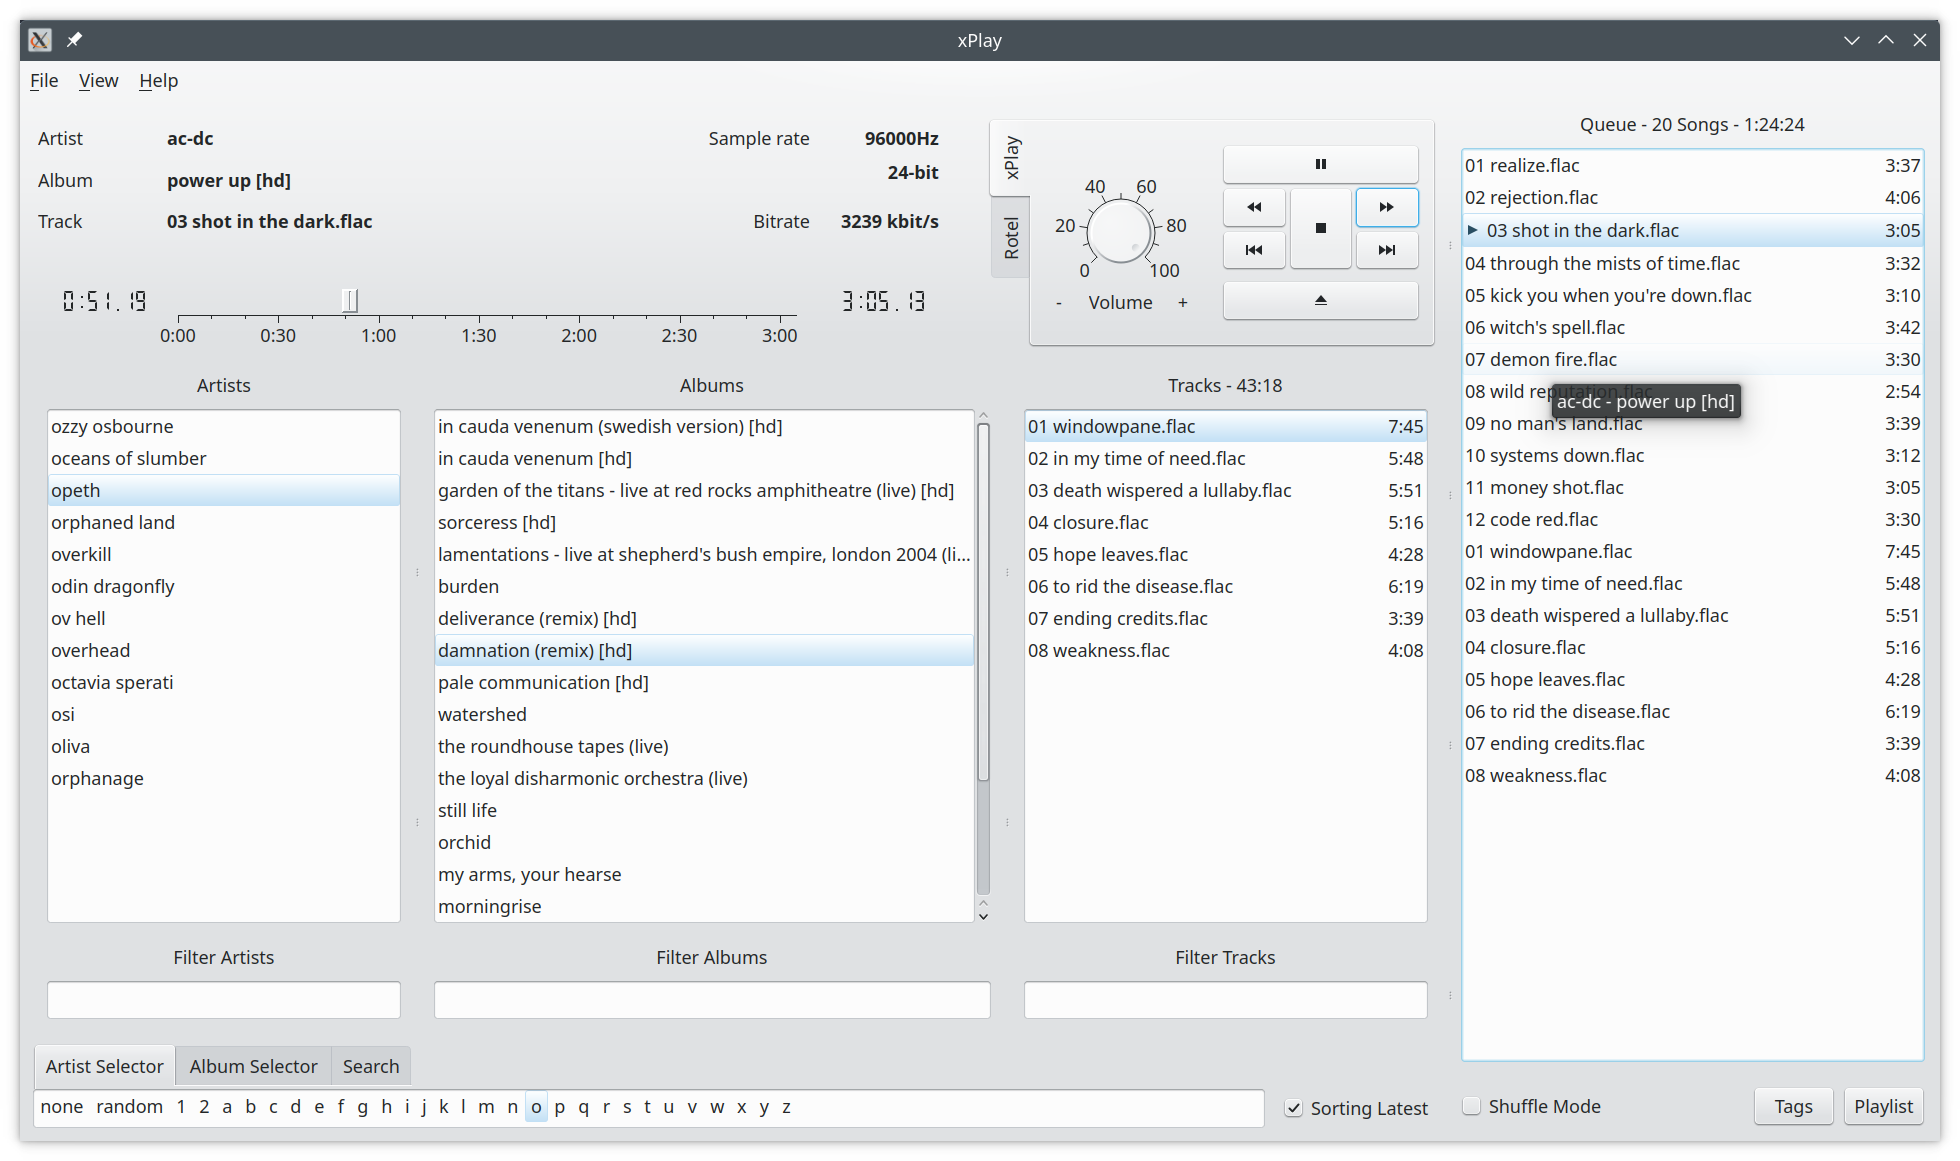
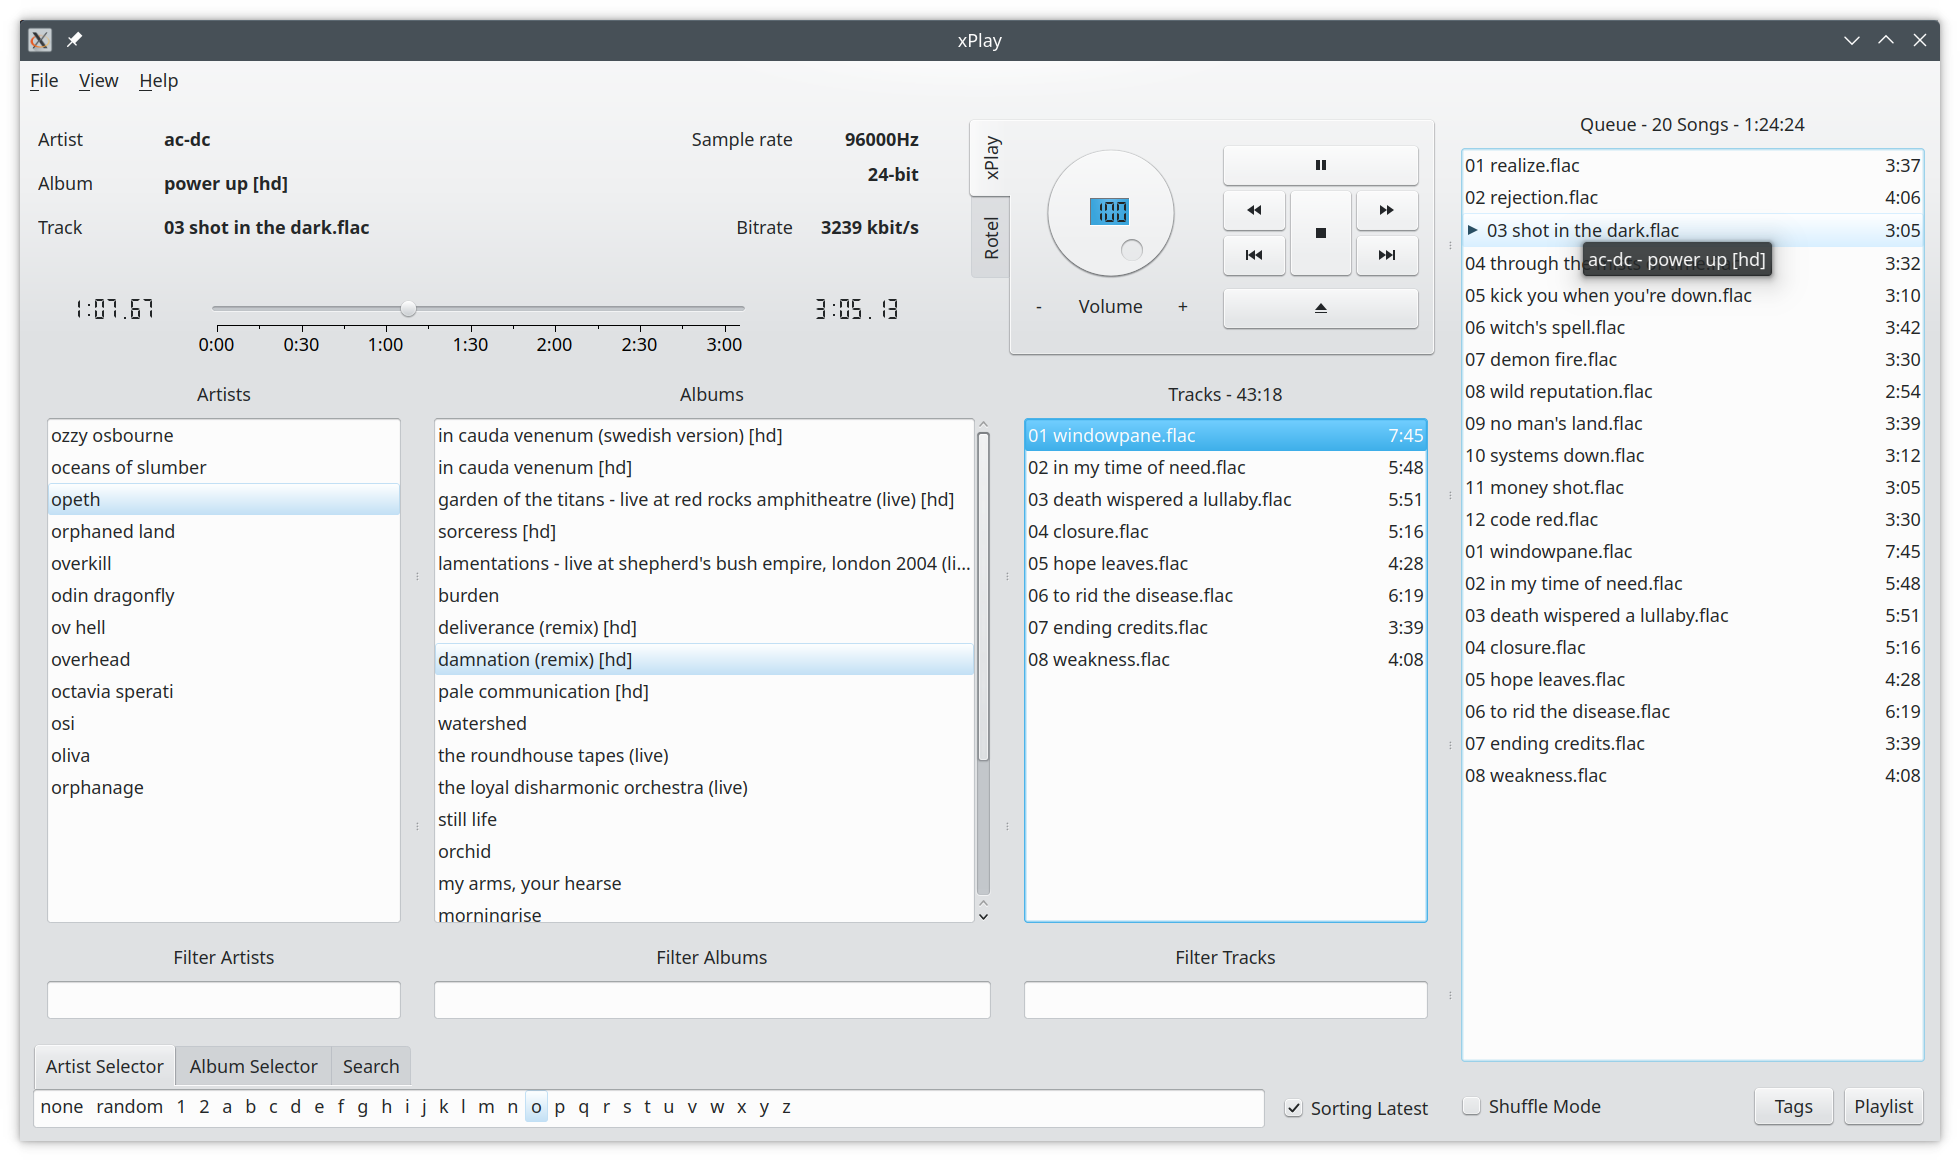
Update CHANGELOG.md, screenshots and version number.

diff --git a/xPlay.cpp b/xPlay.cpp
@@ -151,7 +151,7 @@ int main(int argc, char* argv[])
 {
     QApplication playApp(argc, argv);
     QApplication::setApplicationName("xPlay");
-    QApplication::setApplicationVersion("0.14.1");
+    QApplication::setApplicationVersion("0.14.2");
     QCommandLineParser playAppParser;
     if (handleCommandLine(playApp, playAppParser)) {
         // Exit if the command line was handled.

diff --git a/CHANGELOG.md b/CHANGELOG.md
@@ -1,6 +1,16 @@
 # Changelog
 
 
+## 0.14.2 - 2023-01-31
+
+- Remove Qwt dependency.
+  - Use QDial with embedded QLCDNumber as a volume knob.
+  - Use QSlider with self drawn scale.
+- Fix movie player default language/subtitle auto-select.
+- Movie player code and UI cleanups.
+- Rotel widget and controls code split.
+
+
 ## 0.14.1 - 2023-01-21
 
 - Restore music player volume when switching between local and BluOS player library.
